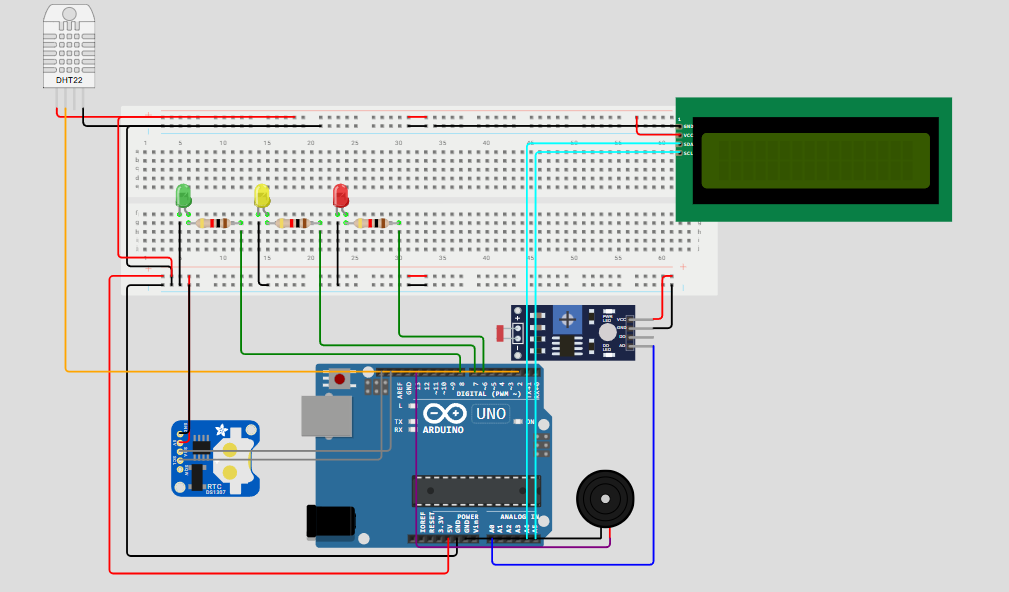
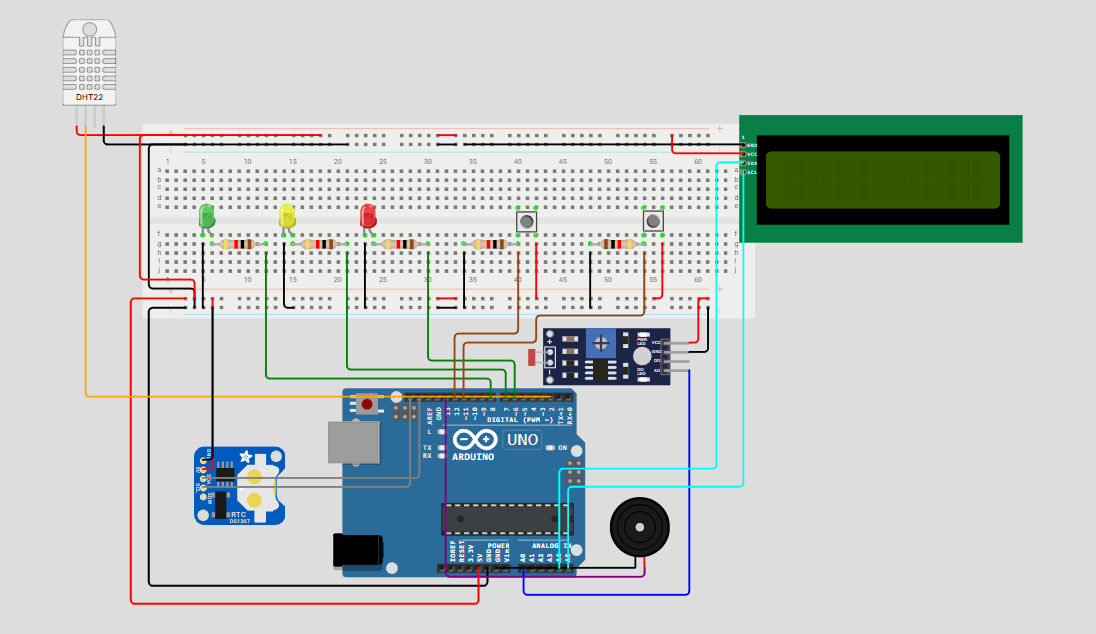
README atualizado e imagens substituídas

Changed region(s): [[0.0307, 0.0, 0.9524, 0.973]]

diff --git a/README.md b/README.md
@@ -1,10 +1,10 @@
 # Sistema de Monitoramento Completo para Vinheria
 
-Sistema IoT desenvolvido para monitoramento em tempo real de **temperatura, umidade e luminosidade** em ambientes de armazenamento de vinhos, com data logger em EEPROM e interface visual avançada.
+Sistema IoT desenvolvido para monitoramento em tempo real de **temperatura, umidade e luminosidade** em ambientes de armazenamento de vinhos, com data logger em EEPROM, interface visual avançada e **controles interativos**.
 
 ## 📋 Descrição do Projeto
 
-Este projeto expande o sistema anterior de monitoramento de luminosidade, adicionando sensores de temperatura e umidade, além de um sistema completo de registro de dados (data logger) com RTC e EEPROM.
+Este projeto implementa um sistema completo de monitoramento para vinherias, com sensores de temperatura, umidade e luminosidade, além de funcionalidades interativas através de botões físicos para controle de unidade de temperatura e filtro do Serial Monitor.
 
 ## 🎯 Funcionalidades
 
@@ -15,27 +15,48 @@ Este projeto expande o sistema anterior de monitoramento de luminosidade, adicio
 
 ### Sistema de Alertas Inteligente
 - 🟢 **Estado OK**: Todos os parâmetros dentro dos limites ideais
-- 🟡 **Estado ALERTA**: Parâmetros próximos aos limites críticos (LED amarelo + buzzer)
-- 🔴 **Estado CRÍTICO**: Parâmetros muito fora dos limites (LED vermelho + buzzer)
+- 🟡 **Estado ALERTA**: Parâmetros próximos aos limites críticos (LED amarelo + buzzer por 3s)
+- 🔴 **Estado CRÍTICO**: Parâmetros muito fora dos limites (LED vermelho + buzzer por 3s)
 
 ### Data Logger com EEPROM
 - 📝 Registro automático a cada 30 segundos quando em alerta ou crítico
 - 💾 Armazena até 100 registros com timestamp completo
 - 🔄 Sistema de buffer circular (sobrescreve registros mais antigos)
-- 📊 Leitura de logs na inicialização
+- 📊 Leitura de logs na inicialização (pode ser desativada via `LOG_OPTION`)
 
-### Interface Visual Avançada (Diferencial)
+### Controles Interativos
+
+#### 🌡 **Botão de Alternância Celsius/Fahrenheit (Pino 12)**
+- **Pressione e segure por pelo menos 50ms** para alternar entre °C e °F
+- Alterna entre as unidades de temperatura em tempo real
+- Conversão precisa usando a fórmula: °F = (°C × 9/5) + 32
+- Sistema de **debounce** implementado (50ms) para evitar leituras duplicadas
+- Atualização instantânea no LCD e Serial Monitor
+- Estado persistente durante toda a sessão
+
+#### 🔍 **Botão de Filtro do Serial Monitor (Pino 11)**
+- **Pressione e segure por pelo menos 50ms** para alternar entre modos
+- **Modo Normal** (padrão): Exibe todos os registros (OK, ALERTA, CRÍTICO)
+- **Modo Filtrado**: Exibe apenas registros ALERTA e CRÍTICO
+  - Útil para focar apenas nos dados que serão salvos na EEPROM
+  - Reduz poluição visual no monitor serial
+- Sistema de **debounce** implementado (50ms)
+- Indicação clara do estado atual do filtro
+
+### Interface Visual Avançada
 - 🎨 **Ícones dinâmicos no LCD**: 
   - 🌡 Termômetro que enche conforme a temperatura sobe
   - 💧 Gota que enche conforme a umidade aumenta
   - 💡 Lâmpada que acende conforme a luminosidade aumenta
 - 😊 **Emojis de estado**: Feliz (OK), Sério (Alerta), Triste (Crítico)
 - ✨ Animação de inicialização personalizada com logo da empresa
+- 🔄 Atualização a cada 5 segundos
 
 ### Comunicação e Timestamp
-- 🕐 RTC DS1307 com ajuste de fuso horário (UTC-3)
+- 🕐 RTC DS1307 com ajuste de fuso horário configurável (UTC-3 padrão)
 - 📡 Monitor Serial com logs formatados e alinhados
 - 📅 Timestamps precisos em todos os registros
+- ⚙ Opções de configuração via defines no código
 
 ## 🔧 Componentes Utilizados
 
@@ -50,8 +71,10 @@ Este projeto expande o sistema anterior de monitoramento de luminosidade, adicio
 | LED Verde | 1 | Indicador estado OK |
 | LED Amarelo | 1 | Indicador estado alerta |
 | LED Vermelho | 1 | Indicador estado crítico |
-| Buzzer | 1 | Alarme sonoro |
+| Buzzer | 1 | Alarme sonoro (3 segundos) |
+| Pushbutton | 2 | Controles interativos (pinos 11 e 12) |
 | Resistor 220Ω | 3 | Limitador de corrente dos LEDs |
+| Resistor 10kΩ | 2 | Pull-down dos botões |
 | Protoboard | 1 | Montagem do circuito |
 | Jumpers | Vários | Conexões |
 
@@ -94,13 +117,13 @@ Este projeto expande o sistema anterior de monitoramento de luminosidade, adicio
 
 ![Monitor Iniciado](imgs/monitorIniciado.png)
 
-*Serial monitor iniciado*
+*Serial monitor iniciado com informações dos botões*
 
 ---
 
 ![Serial Monitor Salvando](imgs/serialMonitor.png)
 
-*Serial monitor salvando na EEPROM*
+*Serial monitor salvando registros na EEPROM*
 
 ## 📐 Diagrama de Conexões
 
@@ -115,7 +138,7 @@ DHT22:
 
 LDR:
 - Um lado → 5V
-- Outro lado → A0
+- Outro lado → A0 + Resistor 10kΩ para GND
 
 RTC DS1307:
 - VCC → 5V
@@ -145,6 +168,19 @@ RTC DS1307:
 - Negativo → GND
 ```
 
+**Botões:**
+```
+Botão Celsius/Fahrenheit:
+- Um lado → Pino 12
+- Outro lado → 5V
+- Resistor 10kΩ do Pino 12 para GND (pull-down)
+
+Botão Filtro Serial:
+- Um lado → Pino 11
+- Outro lado → 5V
+- Resistor 10kΩ do Pino 11 para GND (pull-down)
+```
+
 ## 🚀 Como Executar
 
 ### No Simulador Wokwi
@@ -153,26 +189,61 @@ RTC DS1307:
 3. Ajuste os valores dos sensores:
    - DHT22: Temperatura e umidade
    - LDR: Luminosidade
-4. Observe o comportamento dos LEDs, buzzer e display
-5. Abra o **Serial Monitor** para ver os logs detalhados
+4. **Teste os botões interativos**:
+   - **Pressione e segure** o botão do Pino 12 por ~50ms para alternar °C/°F
+   - **Pressione e segure** o botão do Pino 11 por ~50ms para ativar/desativar filtro
+5. Observe o comportamento dos LEDs, buzzer e display
+6. Abra o **Serial Monitor** para ver os logs detalhados
 
 ### No Arduino Físico
 1. Baixe os arquivos do repositório
 2. Instale as bibliotecas necessárias (via Library Manager)
 3. Abra o arquivo `sketch.ino` no Arduino IDE
-4. Monte o circuito conforme o diagrama
-5. **IMPORTANTE**: Na primeira vez, deixe esta linha ativa:
+4. Monte o circuito conforme o diagrama (não esqueça os resistores de pull-down!)
+5. **Configure o código** (opcional):
+   ```cpp
+   #define LOG_OPTION 1      // 1 = Lê EEPROM na inicialização, 0 = Não lê
+   #define SERIAL_OPTION 1   // 1 = Serial ativo, 0 = Serial desativado
+   #define UTC_OFFSET -3     // Ajuste o fuso horário
+   ```
+6. **IMPORTANTE**: Na primeira vez, deixe esta linha ativa:
    ```cpp
    rtc.adjust(DateTime(F(__DATE__), F(__TIME__)));
    ```
-6. Faça o upload do código
-7. **Após o primeiro upload**, comente a linha acima e faça upload novamente
-8. Abra o Monitor Serial (9600 baud) para ver os logs
+7. Faça o upload do código
+8. **Após o primeiro upload**, comente a linha acima e faça upload novamente
+9. Abra o Monitor Serial (9600 baud) para ver os logs
 
 ## 💡 Como Funciona
 
+### Sistema de Alternância de Temperatura
+```cpp
+Funcionamento do Botão (Pino 12):
+1. Pressione e segure o botão por pelo menos 50ms
+2. O sistema detecta a mudança de estado (debounce)
+3. Alterna a flag usarFahrenheit (true/false)
+4. Atualiza display e serial automaticamente
+5. Conversão: °F = (°C × 9/5) + 32
+
+Importante: Não basta um clique rápido - segure por ~50ms
+Estado persistente durante toda a execução
+```
+
+### Sistema de Filtro do Serial Monitor
+```cpp
+Funcionamento do Botão (Pino 11):
+1. Pressione e segure o botão por pelo menos 50ms
+2. O sistema detecta a mudança de estado (debounce)
+3. Alterna a flag filtrarSerial
+4. Quando ATIVO: exibe apenas ALERTA e CRÍTICO
+5. Quando INATIVO: exibe todos os registros (OK, ALERTA, CRÍTICO)
+
+Importante: Não basta um clique rápido - segure por ~50ms
+Útil para visualizar apenas dados que serão salvos na EEPROM
+```
+
 ### Sistema de Média Móvel
-O sensor LDR utiliza um algoritmo de **média móvel** com 10 leituras para eliminar ruídos e variações momentâneas:
+O sensor LDR utiliza um algoritmo de **média móvel** com 10 leituras para eliminar ruídos:
 ```cpp
 // A cada leitura:
 1. Remove a leitura mais antiga do array
@@ -195,11 +266,12 @@ O sensor LDR utiliza um algoritmo de **média móvel** com 10 leituras para elim
 2. Se estiver em ALERTA ou CRÍTICO:
    → Salva na EEPROM: timestamp + temperatura + umidade + luminosidade
    → Avança para próxima posição (buffer circular)
-3. Na inicialização, lê e exibe todos os logs armazenados
+   → Exibe "REGISTRADO NA EEPROM" no Serial
+3. Na inicialização (se LOG_OPTION = 1), lê e exibe todos os logs
 ```
 
-### Ícones Dinâmicos (Diferencial)
-O grande diferencial deste projeto são os **ícones que mudam dinamicamente** conforme os valores:
+### Ícones Dinâmicos
+Os **ícones mudam dinamicamente** conforme os valores dos sensores:
 
 **Termômetro 🌡:**
 - Vazio (abaixo de 12°C)
@@ -218,6 +290,7 @@ O grande diferencial deste projeto são os **ícones que mudam dinamicamente** c
 
 ## 📊 Saída do Monitor Serial
 
+### Inicialização
 ```
 === LOGS ARMAZENADOS NA EEPROM ===
 Timestamp                    Temp    Umid    Luz
@@ -227,12 +300,41 @@ Timestamp                    Temp    Umid    Luz
 ===================================
 
 Sistema iniciado!
+Botao pino 12: Alterna Celsius/Fahrenheit
+Botao pino 11: Filtra Serial Monitor (apenas ALERTA/CRITICO)
 Timestamp           Temp    Umid    Luz    Status
-2024/11/01 16:31:29  15.0C   61.0%   8%    OK
-2024/11/01 16:31:31  15.0C   61.0%  45%    ALERTA
+```
+
+### Modo Normal (Filtro Desativado)
+```
+2024/10/30 16:31:29  15.0C   61.0%   8%    OK
+2024/10/30 16:31:34  15.2C   62.0%  12%    OK
+2024/10/30 16:31:39  16.0C   61.0%  45%    ALERTA
  --> REGISTRADO NA EEPROM
-2024/11/01 16:31:33  22.0C   61.0%  78%    CRITICO
+2024/10/30 16:31:44  22.0C   61.0%  78%    CRITICO
  --> REGISTRADO NA EEPROM
+```
+
+### Modo Filtrado (Apenas ALERTA/CRÍTICO)
+```
+========================================
+>>> FILTRO ATIVADO: Exibindo apenas registros ALERTA e CRITICO
+>>> (Dados que serao salvos na EEPROM)
+========================================
+
+2024/10/30 16:31:39  16.0C   61.0%  45%    ALERTA
+ --> REGISTRADO NA EEPROM
+2024/10/30 16:31:44  22.0C   61.0%  78%    CRITICO
+ --> REGISTRADO NA EEPROM
+```
+
+### Alternância de Temperatura
+```
+>>> Unidade alterada para: FAHRENHEIT
+2024/10/30 16:32:10  59.0F   61.0%  45%    ALERTA
+
+>>> Unidade alterada para: CELSIUS
+2024/10/30 16:32:15  15.0C   61.0%  45%    ALERTA
 ```
 
 ## 🎨 Interface LCD
@@ -241,11 +343,18 @@ Timestamp           Temp    Umid    Luz    Status
 ```
 🍃 Vinharia  🍃
 🍇  Agnello  🍇
+[Barra de progresso animada]
 ```
 
-**Tela de Monitoramento:**
+**Tela de Monitoramento (Celsius):**
 ```
 🌡15.5C 💧70% 💡35%
+😊 Tudo Certo!
+```
+
+**Tela de Monitoramento (Fahrenheit):**
+```
+🌡59.9F 💧70% 💡35%
 😊 Tudo Certo!
 ```
 
@@ -254,18 +363,52 @@ Timestamp           Temp    Umid    Luz    Status
 - `😐 Atencao!` - Alerta
 - `☹ Critico!` - Situação crítica
 
-## 🔄 Diferenças entre Fase 1 e Fase 2
+## 🎓 Conceitos Aplicados
 
-| Aspecto | Fase 1 | Fase 2 |
-|---------|--------|--------|
-| Sensores | LDR apenas | LDR + DHT22 (temp/umid) |
-| Display | LCD 16x2 padrão | LCD 16x2 I2C |
-| Ícones | Estáticos | Dinâmicos (mudam conforme valores) |
-| Data Logger | Não | Sim (EEPROM + RTC) |
-| Timestamp | Não | Sim (UTC-3) |
-| Faixas de alerta | 3 níveis simples | 3 níveis com margem |
-| Armazenamento | Não | Buffer circular de 100 registros |
-| Comunicação I2C | Não | Sim (LCD e RTC) |
+### Hardware
+- ✅ Sensores analógicos (LDR) e digitais (DHT22)
+- ✅ Protocolo I2C (LCD e RTC)
+- ✅ Debouncing de botões
+- ✅ Pull-down resistors
+- ✅ Controle de buzzer
+- ✅ Multiplexação de LEDs
+
+### Software
+- ✅ Média móvel (filtro digital)
+- ✅ Máquina de estados (OK/ALERTA/CRÍTICO)
+- ✅ Buffer circular (EEPROM)
+- ✅ Manipulação de timestamps
+- ✅ Conversão de unidades (Celsius ↔ Fahrenheit)
+- ✅ Debouncing por software
+- ✅ Flags de controle
+- ✅ Formatação de strings
+- ✅ Caracteres customizados LCD
+
+## 🔧 Troubleshooting
+
+### Problema: Botões não respondem
+- ✅ Verifique os resistores de pull-down (10kΩ)
+- ✅ Confirme as conexões dos pinos 11 e 12
+- ✅ **Pressione e segure os botões por pelo menos 50ms** (não apenas clique rápido)
+- ✅ Teste os botões individualmente
+
+### Problema: Temperatura sempre em Fahrenheit
+- ✅ A flag inicia em Celsius (false)
+- ✅ Pressione o botão do pino 12 para alternar
+
+### Problema: Serial Monitor muito poluído
+- ✅ Pressione o botão do pino 11 para ativar o filtro
+- ✅ Isso mostrará apenas registros ALERTA/CRÍTICO
+
+### Problema: RTC não mantém horário
+- ✅ Verifique se o RTC tem bateria
+- ✅ Faça o ajuste inicial com `rtc.adjust()`
+- ✅ Comente a linha após o primeiro upload
+
+### Problema: LCD não exibe nada
+- ✅ Verifique o endereço I2C (padrão: 0x27)
+- ✅ Ajuste o contraste do LCD
+- ✅ Confirme conexões SDA e SCL
 
 ## 📚 Recursos Adicionais
 
@@ -273,6 +416,7 @@ Timestamp           Temp    Umid    Luz    Status
 - [Biblioteca RTClib](https://github.com/adafruit/RTClib)
 - [LCD I2C Tutorial](https://www.arduino.cc/reference/en/libraries/liquidcrystal-i2c/)
 - [EEPROM Arduino](https://www.arduino.cc/en/Reference/EEPROM)
+- [Debouncing Buttons](https://www.arduino.cc/en/Tutorial/BuiltInExamples/Debounce)
 
 ## 👥 Autores
 
